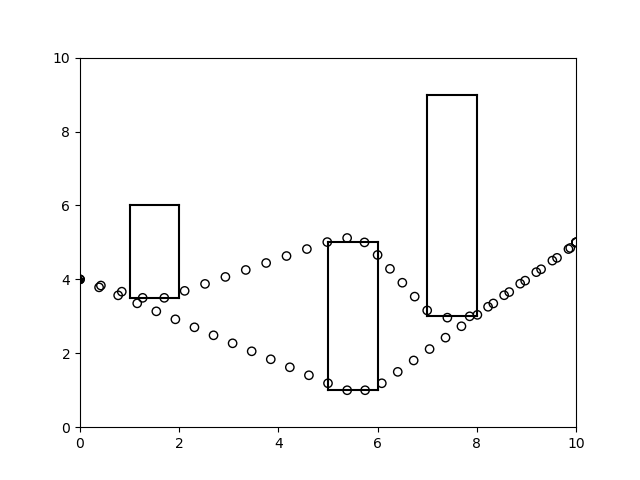
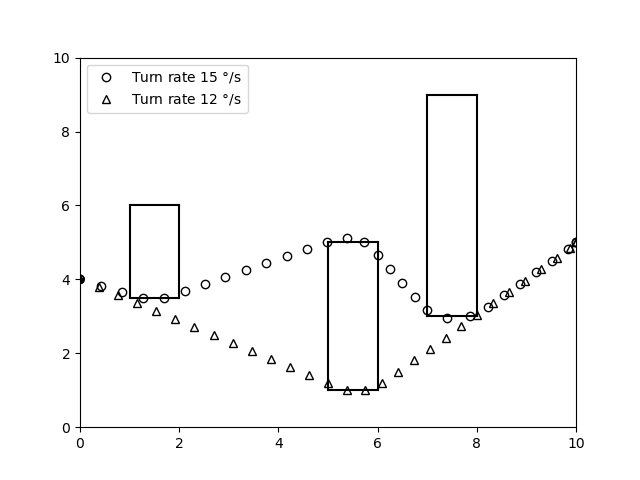
Added a legend to the image 0

diff --git a/src/main.py b/src/main.py
@@ -12,9 +12,9 @@ if __name__ == '__main__':
     parser.add_argument("figureNumber", metavar='figureNumber', type=int)
 
     args = parser.parse_args()
-    # Figure 7 in the paper: 3 vehicles
-
-    if args.figureNumber == 5:
+    
+    # Figure 4 in the paper: 2 vehicles with different turn rates
+    if args.figureNumber == 0:
         area_size = 10  # window size
         wp = False       # switch for use of waypoints. True: waypoints can be used. False: function deactivated
 
@@ -41,8 +41,8 @@ if __name__ == '__main__':
         constrain_waypoints = False
         constrain_obstacles = True
 
-
-    if args.figureNumber == 7:
+    # Figure 13 in the paper: 3 vehicles
+    if args.figureNumber == 1:
         area_size = 2.5  # window size
         wp = False       # switch for use of waypoints. True: waypoints can be used. False: function deactivated
         diag_x = 0.0857  # initial x-velocity component of the aircraft flying in a diagonal direction
@@ -67,8 +67,8 @@ if __name__ == '__main__':
         constrain_waypoints = False
         constrain_obstacles = False
 
-    # Figure 8 in the paper: 4 vehicles
-    if args.figureNumber == 8:
+    # Figure 15 in the paper: 4 vehicles
+    if args.figureNumber == 2:
         area_size = 4            # window size
         wp = False               # switch for use of waypoints. True: waypoints can be used. False: function deactivated
 
@@ -97,8 +97,8 @@ if __name__ == '__main__':
         constrain_obstacles = False
 
 
-    # Figure 9 in the paper: waypoints without obstacle
-    if args.figureNumber == 9:
+    # Figure 17 in the paper: waypoints without obstacle
+    if args.figureNumber == 3:
         area_size = 10  # window size
         wp = True       # switch for use of waypoints. True: waypoints can be used. False: function deactivated
         vx_init = [0]   # initial x-component velocity
@@ -119,8 +119,8 @@ if __name__ == '__main__':
         constrain_waypoints = True
         constrain_obstacles = False
 
-    # Figure 10 in the paper: waypoint with obstacle
-    if args.figureNumber == 10:
+    # Figure 19 in the paper: waypoint with obstacle
+    if args.figureNumber == 4:
         area_size = 10      # window size
         wp = True           # switch for use of waypoints. True: waypoints can be used. False: function deactivated
         vx_init = [-0.19]   # initial x-component velocity
@@ -235,15 +235,15 @@ if __name__ == '__main__':
 
     for i in range(num_vehicles):
         z = 0
-        if args.figureNumber == 7:
+        if args.figureNumber == 1:
             # Plot a bold point at the 18th point as done in the paper
             plt.scatter(vehicles[i].x[18].x, vehicles[i].y[18].x, facecolor = 'black', edgecolor = 'black')
             # Plot dashed lines connecting initial and final points for all vehicles
             plt.plot([veh_coords[i][0], veh_coords[i][2]], [veh_coords[i][1], veh_coords[i][3]], 'k--', alpha = 0.5)
-        elif args.figureNumber == 8:
+        elif args.figureNumber == 2:
             # Plot dashed lines connecting initial and final points for all vehicles
             plt.plot([veh_coords[i][0], veh_coords[i][2]], [veh_coords[i][1], veh_coords[i][3]], 'k--', alpha=0.5)
-        elif args.figureNumber == 9 or args.figureNumber == 10:
+        elif args.figureNumber == 3 or args.figureNumber == 4:
             # Plot arrow as shown in the paper
             plt.arrow(7.5, 5, -2, 0, length_includes_head=True, head_width=0.3)
         for k in range(steps):                 # obtaining time step at which vehicle reaches the final point
@@ -257,13 +257,21 @@ if __name__ == '__main__':
         if wp:                                # plotting the location of the waypoints
             for jj in range(len(x_wp[i])):
                 plt.plot(x_wp[i][jj], y_wp[i][jj], '*', color='k')
-        plt.scatter(coords[:,0], coords[:,1], facecolor = 'none', edgecolor = 'black')  # plot the trajectories of the vehicles
+        
+        if args.figureNumber == 0:
+            labels = ['Turn rate 15 $\degree$/s', 'Turn rate 12 $\degree$/s']
+            shape = ['o', '^']
+            plt.plot(coords[:,0], coords[:,1], shape[i], fillstyle='none',color='black',label=labels[i])
+            plt.legend()
+        else:
+            plt.scatter(coords[:,0], coords[:,1], facecolor = 'none', edgecolor = 'black')  # plot the trajectories of the vehicles
+        
         plt.plot(vehicles[i].x_fin, vehicles[i].y_fin, '*', color='k')    # plot the final points star
         plt.scatter(vehicles[i].x_fin, vehicles[i].y_fin, facecolor = 'none', edgecolor = 'black')  # plot the final points circle
 
     plt.xlim([-area_size, area_size])   # limit the plot space
     plt.ylim([-area_size, area_size])   # limit the plot space
-    if args.figureNumber == 5:
+    if args.figureNumber == 0:
         plt.xlim([0, area_size])   # limit the plot space
         plt.ylim([0, area_size])   # limit the plot space
     
